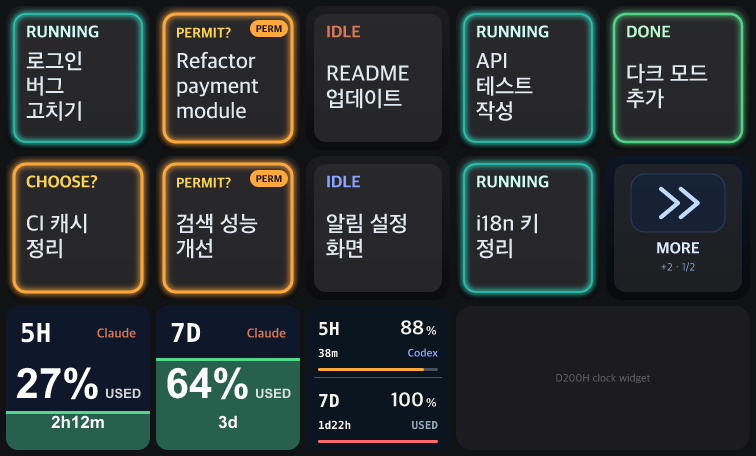
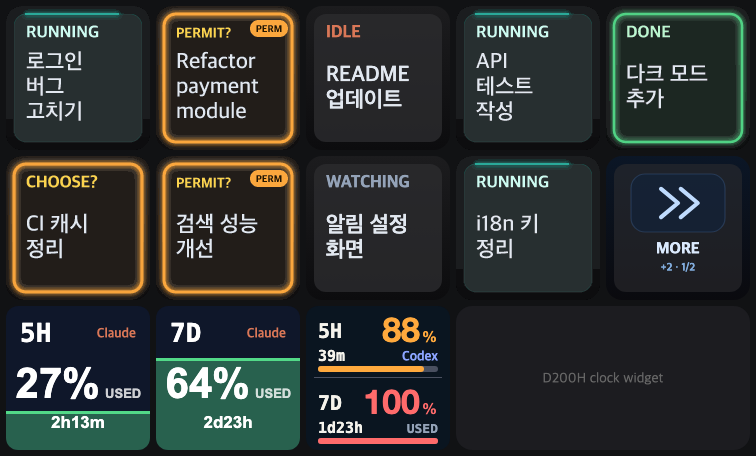
README 미리보기 그림: 영어판(preview-en.png) 추가, 한국어판 갱신
npm run preview -- --en 으로 세션 제목을 영어로 만들 수 있다.

diff --git a/README.ja.md b/README.ja.md
@@ -4,7 +4,7 @@
 
 Ulanzi D200H に [Orca](https://orca.dev) のエージェントセッションと Claude・Codex の残り利用枠を表示する Ulanzi Studio プラグインです（macOS）。
 
-![キーのプレビュー](docs/preview.png)
+![キーのプレビュー](docs/preview-en.png)
 
 - **セッションスロット**：複数のキーに置くと、Orca のセッションがキーの位置順に埋まります。新しいセッションは次の空きスロットに入り、閉じたセッションは抜けて後ろが詰まります。押すと Orca がそのセッションに切り替わり、長押しすると承認・停止・クイック返信ボタンのある詳細画面が開きます。
 - **その他のセッション**：セッションがスロットより多いとき、次のページに送ります。

diff --git a/README.md b/README.md
@@ -4,7 +4,7 @@
 
 An Ulanzi Studio plugin that shows your [Orca](https://orca.dev) agent sessions and remaining Claude / Codex usage limits on the Ulanzi D200H (macOS).
 
-![Key preview](docs/preview.png)
+![Key preview](docs/preview-en.png)
 
 - **Session slot**: Place it on several keys and Orca sessions fill them in key order. New sessions take the next empty slot; closed ones drop out and the rest shift forward. Press to switch Orca to that session; long-press to open a detail view with approve / stop / quick-reply buttons.
 - **More sessions**: Pages through sessions when there are more sessions than slots.

diff --git a/README.zh-CN.md b/README.zh-CN.md
@@ -4,7 +4,7 @@
 
 一个 Ulanzi Studio 插件，在 Ulanzi D200H 上显示 [Orca](https://orca.dev) 的智能体会话以及 Claude、Codex 的剩余用量额度（macOS）。
 
-![按键预览](docs/preview.png)
+![按键预览](docs/preview-en.png)
 
 - **会话槽位**：放在多个按键上，Orca 会话会按按键位置顺序填入。新会话进入下一个空槽位，关闭的会话会移出，后面的依次前移。按下即可让 Orca 切换到该会话；长按会打开带有批准、停止、快捷回复按钮的详情界面。
 - **更多会话**：会话数多于槽位时翻到下一页。
